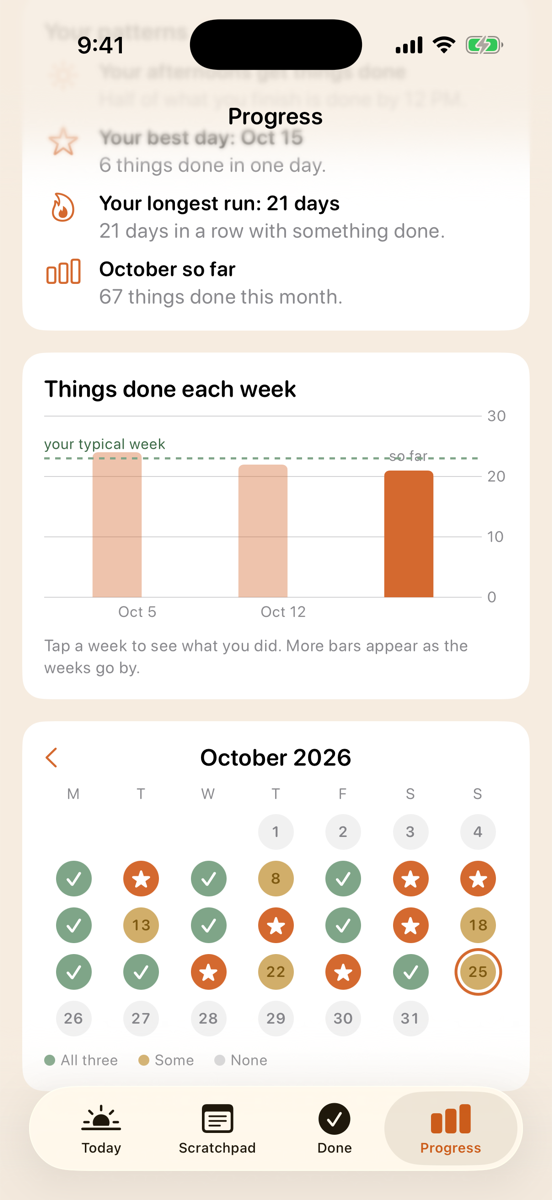
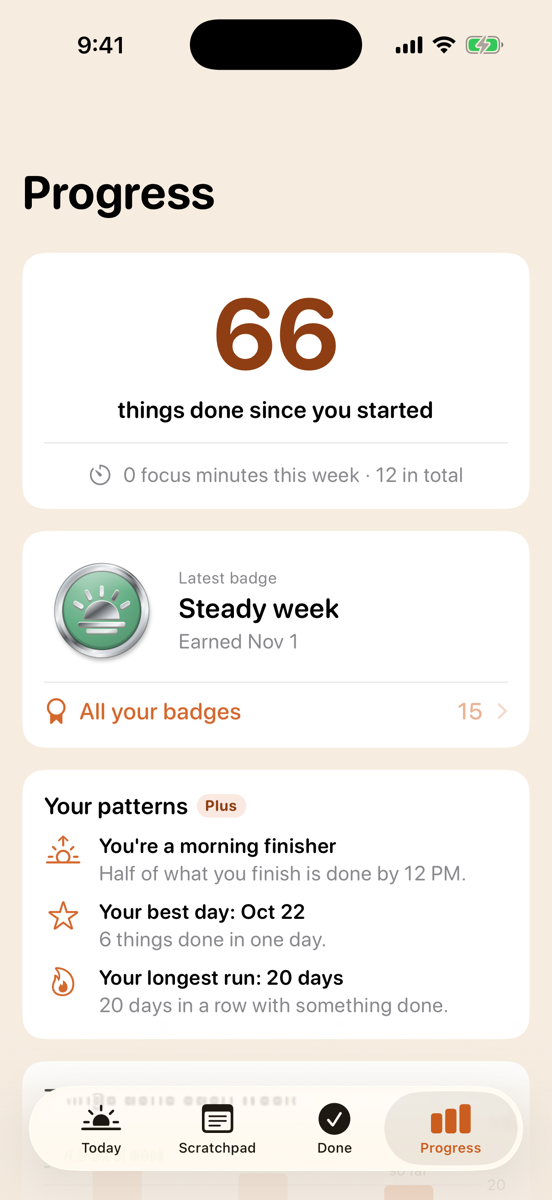
Start with one: new story, screenshots, support FAQ and link card

diff --git a/support.html b/support.html
@@ -26,8 +26,8 @@
   <h2>I ticked something by accident.</h2>
   <p>On Today, ticked tasks stay on the list for the day. Tap the green circle again to untick it, or tap <strong>•••</strong> on the task (or touch and hold it) and choose <strong>Mark as not done</strong>. You can also find it in the Done tab. It goes back exactly where it was.</p>
 
-  <h2>I finished something that wasn't in my three. Does it count?</h2>
-  <p>Yes. Any three things you finish fill your day, whether they're your three or something from the Scratchpad: the ring fills, nudges stop and the day's dot turns green. Everything also counts toward Progress and badges. Anything past three shows as <strong>+1</strong>, <strong>+2</strong>… on the ring.</p>
+  <h2>I finished something that wasn't in today's picks. Does it count?</h2>
+  <p>Yes. Anything you finish counts toward your daily goal, whether it's one of today's picks or something from the Scratchpad: the ring fills, nudges stop and the day's dot turns green. Everything also counts toward Progress and badges. Anything past your goal shows as <strong>+1</strong>, <strong>+2</strong>… on the ring.</p>
 
   <h2>I gave a task the wrong date.</h2>
   <p>Tap <strong>•••</strong> on the task and choose <strong>Set a date</strong> (or <strong>Change date</strong>). This works on Today too: pick a later day and it leaves today's list and waits for that day.</p>
@@ -36,19 +36,21 @@
   <p>At the top of Today, tap <strong>Take a day off</strong> and pick the dates. Days off never break your streak, and the app stays quiet on them. To skip the same days every week, change <strong>Active days</strong> in Settings.</p>
 
   <h2>How do I put a task on a certain day?</h2>
-  <p>Just type the day anywhere in the line: “call mom <strong>tomorrow</strong>”, “dentist <strong>fri</strong>”, “rent <strong>oct 30</strong>” or “<strong>10/30</strong>”. The task waits in the Scratchpad and joins your three that morning. “<strong>this weekend</strong>” puts it on Saturday, and “<strong>next fri</strong>” means Friday of next week. You can also tap <strong>•••</strong> on a task and choose <strong>Set a date</strong>.</p>
+  <p>Just type the day anywhere in the line: “call mom <strong>tomorrow</strong>”, “dentist <strong>fri</strong>”, “rent <strong>oct 30</strong>” or “<strong>10/30</strong>”. The task waits in the Scratchpad and joins today's picks that morning. “<strong>this weekend</strong>” puts it on Saturday, and “<strong>next fri</strong>” means Friday of next week. You can also tap <strong>•••</strong> on a task and choose <strong>Set a date</strong>.</p>
 
   <h2>What's the difference between a day and a deadline?</h2>
-  <p>A plain date (“fri”) is the day you'll do it, so it stays out of your three until then. Add “<strong>by</strong>” or “<strong>due</strong>” (“by fri”) and it's a deadline instead: Soonish may pick it earlier when there's room. You can switch between the two under <strong>Set a date</strong> or in Edit.</p>
+  <p>A plain date (“fri”) is the day you'll do it, so it stays out of today's picks until then. Add “<strong>by</strong>” or “<strong>due</strong>” (“by fri”) and it's a deadline instead: Soonish may pick it earlier when there's room. You can switch between the two under <strong>Set a date</strong> or in Edit.</p>
 
   <h2>Can tasks repeat?</h2>
-  <p>Yes. Type “<strong>every day</strong>”, “<strong>daily</strong>”, “<strong>every weekday</strong>”, “<strong>every mon and thu</strong>”, “<strong>on tuesdays</strong>”, “<strong>weekly</strong>” or “<strong>each day this week</strong>”, or tap <strong>•••</strong> and choose <strong>Repeat</strong> to pick the days and an optional last day. Each repeat joins your three on its day. Tick it and the next one waits for its day. Miss a day and it simply moves on: nothing piles up and nothing counts against you.</p>
+  <p>Yes. Type “<strong>every day</strong>”, “<strong>daily</strong>”, “<strong>every weekday</strong>”, “<strong>every mon and thu</strong>”, “<strong>on tuesdays</strong>”, “<strong>weekly</strong>” or “<strong>each day this week</strong>”, or tap <strong>•••</strong> and choose <strong>Repeat</strong> to pick the days and an optional last day. Each repeat joins today's picks on its day. Tick it and the next one waits for its day. Miss a day and it simply moves on: nothing piles up and nothing counts against you.</p>
 
   <h2>Can Soonish remind me at a certain time?</h2>
   <p>Yes. Add a time when you type a task: “call doctor <strong>at 3pm</strong>”, “dentist fri <strong>9:30am</strong>” or just “<strong>320p</strong>”. You can also tap <strong>•••</strong>, then <strong>Change date</strong> and <strong>Set time</strong>. Then turn on <strong>Settings → Heads-up for timed tasks</strong> and choose 15 minutes, 30 minutes or an hour before. You get one notification, even on a day off, and none if the task is already done.</p>
 
-  <h2>How does Soonish pick my three?</h2>
-  <p>It looks at due dates, tasks you've marked <strong>Important</strong>, and how long things have been waiting. It never gives you more than one task marked Heavy at once (unless two are due today). Each pick shows a small reason. Don't like one? Swap it out, and use "Back to the suggested three" to undo.</p>
+  <h2>How does Soonish pick for me?</h2>
+  <p>It looks at due dates, tasks you've marked <strong>Important</strong>, and how long things have been waiting. It never gives you more than one task marked Heavy at once (unless two are due today). Each pick shows a small reason. Don't like one? Swap it out, and use "Back to Soonish's picks" to undo.</p>
+  <h2>Why only one thing a day?</h2>
+  <p>Starting is the hardest part, so Soonish starts you with one. After a week with something done every day, it asks if you'd like two a day, then three. You can change it any time in <strong>Settings → Your daily goal</strong>, and doing more is always welcome: it all counts. A day with nothing on your list is a quiet day, and it never breaks your streak.</p>
 
   <h2>How do badges work?</h2>
   <p>You earn badges for Steady and Perfect weeks, your best week yet, going above and beyond, doing things you chose yourself, coming back after time away, focus time and milestones. There are once-a-year ones too, for New Year, St. Patrick's Day, Halloween, Thanksgiving and each new season, and one for your first day off. They never expire, and days off never cost you one. Find them on <strong>Progress</strong>: tap one to bring it to the front, and tap it again to see why you earned it.</p>
@@ -59,7 +61,7 @@
   <h2>What is Soonish Plus?</h2>
   <p>A few extras on top of Soonish, which stays free. They're free for everyone during the beta and marked with a small <strong>Plus</strong> tag. Turn them on in <strong>Settings → Soonish Plus</strong>:</p>
   <ul>
-    <li><strong>Today's three on the Lock Screen and Dynamic Island.</strong> It shows up on its own whenever you open Soonish and haven't finished three yet, and you can tick tasks right there. It goes away once three are done. The first time, iOS asks to allow Live Activities from Soonish.</li>
+    <li><strong>Today on the Lock Screen and Dynamic Island.</strong> It shows up on its own whenever you open Soonish and haven't met your goal yet, and you can tick tasks right there. It goes away once your goal is done. The first time, iOS asks to allow Live Activities from Soonish.</li>
     <li><strong>Focus sounds.</strong> Brown, pink or white noise under any Focus or Need a minute timer. It keeps going with the phone locked and stops when the timer ends.</li>
     <li><strong>Themes and app icons.</strong> Clay, Sea glass, Dusk, Rosewood, Brick or Denim, each with a matching icon for light and dark mode. Done, dates and Important keep their colours in every theme.</li>
     <li><strong>Your patterns.</strong> After about a week, Progress notices when you get the most done, your strongest day, your best day and longest run, and offers to move your nudges or end-of-day note to suit you. A short recap arrives on the 1st of each month.</li>
@@ -73,7 +75,7 @@
   <p>The Soonish widget follows your phone's light or dark mode, set in <strong>Settings → Display &amp; Brightness</strong>. iPhone also lets you make just the Home Screen light (touch and hold the Home Screen, then <strong>Edit → Customize</strong>), but apps can't see that choice, so the widget stays dark. To fix it, open Soonish and go to <strong>Settings → Look</strong>, then choose <strong>Light</strong>. The widget will stay light whatever your phone is set to. Choose <strong>Match phone</strong> to go back.</p>
 
   <h2>The nudges are too much (or not enough).</h2>
-  <p>Change the times in Settings, or swipe one away to remove it. They always stop as soon as three things are done today, and never come on days off or while a Focus timer is running.</p>
+  <p>Change the times in Settings, or swipe one away to remove it. They always stop as soon as your goal is done today, and never come on days off or while a Focus timer is running.</p>
 
   <footer>Soonish · <a href="privacy.html">Privacy</a></footer>
 </main>

diff --git a/index.html b/index.html
@@ -4,17 +4,17 @@
   <meta charset="utf-8">
   <meta name="viewport" content="width=device-width, initial-scale=1">
   <title>Soonish</title>
-  <meta name="description" content="Three things a day, picked for you. A calm iPhone to-do app that picks your three for today.">
+  <meta name="description" content="Start with one. A calm iPhone to-do app that picks one thing for today, and more when you're ready.">
   <!-- Link previews (Messages, Slack, social): a wide 1200×630 card, not the tall screenshot. -->
   <meta property="og:type" content="website">
   <meta property="og:url" content="https://getsoonish.co/">
   <meta property="og:site_name" content="Soonish">
-  <meta property="og:title" content="Soonish: Three things a day">
-  <meta property="og:description" content="A calm iPhone to-do app. It picks your three for today, nudges you gently, then goes quiet.">
+  <meta property="og:title" content="Soonish: Start with one">
+  <meta property="og:description" content="A calm iPhone to-do app. It picks one thing for today, nudges you gently, then goes quiet.">
   <meta property="og:image" content="https://getsoonish.co/images/social.png">
   <meta property="og:image:width" content="1200">
   <meta property="og:image:height" content="630">
-  <meta property="og:image:alt" content="Soonish: Three things a day. Picked for you. Gentle nudges, then quiet.">
+  <meta property="og:image:alt" content="Soonish: Start with one. Picked for you. Gentle nudges, then quiet.">
   <meta name="twitter:card" content="summary_large_image">
   <link rel="icon" href="logo.svg" type="image/svg+xml">
   <link rel="apple-touch-icon" href="apple-touch-icon.png">
@@ -25,20 +25,20 @@
   <header class="hero">
     <img src="logo.svg" alt="" width="88" height="88">
     <h1>Soonish</h1>
-    <p class="tagline">Three things a day. Start here.</p>
-    <p class="lede">Get everything out of your head. Soonish picks your three for today, nudges you gently until they're done, then goes quiet.</p>
+    <p class="tagline">Start with one.</p>
+    <p class="lede">Get everything out of your head. Soonish picks one thing for today, nudges you gently until it's done, then goes quiet. Ready for more? Grow to two or three a day.</p>
     <!-- The beta button: shown once the TestFlight public link exists. -->
     <p class="cta"><span class="button soon">Beta opening soon</span></p>
   </header>
 
   <section class="highlights">
     <div class="highlight">
-      <h2>It picks your three</h2>
-      <p>Add everything on your mind. Soonish ranks it and puts three on today, with where to start. Swap any you like.</p>
+      <h2>It picks your one</h2>
+      <p>Add everything on your mind. Soonish ranks it and puts one thing on today, with why. Swap it if you like.</p>
     </div>
     <div class="highlight">
       <h2>Gentle nudges, then quiet</h2>
-      <p>A few friendly reminders about what's left. They stop the moment your three are done.</p>
+      <p>A few friendly reminders about what's left. They stop the moment your goal is done.</p>
     </div>
     <div class="highlight">
       <h2>Days off never count against you</h2>
@@ -48,27 +48,27 @@
 
   <section class="shots" aria-label="Screenshots">
     <figure>
-      <img src="images/today.png?v=20261026" alt="Soonish's Today screen: your three in one panel, a Start here highlight, one ticked off, a progress ring at 1 of 3, and this week's dots." width="276" height="600" loading="lazy">
-      <figcaption>Today: your three, and where to start</figcaption>
+      <img src="images/today.png?v=20261101b" alt="Soonish's Today screen: your one thing for today with a Start here button, a progress ring at 0 of 1, and this week's dots." width="276" height="600" loading="lazy">
+      <figcaption>Today: your one thing, and where to start</figcaption>
     </figure>
     <figure>
-      <img src="images/scratchpad.png?v=20261026" alt="The Scratchpad: one line to add anything, Up next with a deadline chip, and everything else in one list: Tomorrow, This week and No date." width="276" height="600" loading="lazy">
+      <img src="images/scratchpad.png?v=20261101b" alt="The Scratchpad: one line to add anything, one thing up next, and everything else folded into Tomorrow, This month and No date, each showing its first task." width="276" height="600" loading="lazy">
       <figcaption>Scratchpad: get it out of your head</figcaption>
     </figure>
     <figure>
-      <img src="images/done.png?v=20261026" alt="The Done tab: 21 things done this week, the week's dots, and each day's finished tasks." width="276" height="600" loading="lazy">
+      <img src="images/done.png?v=20261101b" alt="The Done tab: 20 things done this week, the week's dots, and each day's finished tasks." width="276" height="600" loading="lazy">
       <figcaption>Done: everything you finished</figcaption>
     </figure>
     <figure>
-      <img src="images/progress.png?v=20261026" alt="The Progress tab: notes about when you get things done, things done each week, and a month of coloured day dots." width="276" height="600" loading="lazy">
+      <img src="images/progress.png?v=20261101b" alt="The Progress tab: 66 things done, the latest badge (a Steady week), and notes about when you get things done." width="276" height="600" loading="lazy">
       <figcaption>Progress: numbers that only go up</figcaption>
     </figure>
     <figure>
-      <img src="images/need-a-minute.png?v=20261026" alt="Need a minute: a calm dark screen offering a 2-minute reset, a 15-minute micro-bite, or clearing your head." width="276" height="600" loading="lazy">
+      <img src="images/need-a-minute.png?v=20261101b" alt="Need a minute: a calm dark screen offering a 2-minute reset, a 15-minute micro-bite, or clearing your head." width="276" height="600" loading="lazy">
       <figcaption>Need a minute: for when it's all too much</figcaption>
     </figure>
     <figure>
-      <img src="images/badge.png?v=20261026" alt="A Perfect week badge celebration: a silver-rimmed hexagon pin with a gold enamel star." width="276" height="600" loading="lazy">
+      <img src="images/badge.png?v=20261101b" alt="A Steady week badge celebration: a silver-rimmed green pin with a rising sun, and "Something done every day this week."" width="276" height="600" loading="lazy">
       <figcaption>Badges that celebrate, never shame</figcaption>
     </figure>
   </section>
@@ -76,7 +76,8 @@
   <section class="story">
     <h2>Why I made Soonish</h2>
     <p>I have ADHD, and to-do apps never stuck for me. Seeing everything I needed to do at once made me freeze. The red badge number kept climbing until I stopped looking, and eventually I'd delete the app and feel disappointed in myself for not sticking with something that was meant to help.</p>
-    <p>So I built the opposite: something that would help me actually get through my list. You put everything into the Scratchpad, and each day it shows you just three things. It nudges you gently, then goes quiet once they're done, and a bad day or a day off never counts against you. Instead of a red number on the icon, a widget on your Home Screen shows your three, and you can tick them off right there. You earn badges for what you get done, and you're never shamed for what you don't.</p>
+    <p>So I built the opposite. The first version picked three things a day. Then I lived with it, and on hard days even three was too much. I caught myself marking days off just so my streak wouldn't break, without doing anything at all. Three was still the same wall, just smaller.</p>
+    <p>So now Soonish starts with one. You put everything into the Scratchpad, and each day it shows you one thing. When that starts to feel easy, it asks if you'd like two, then three, but it never asks for more than three, and you can always go back. It nudges you gently, then goes quiet once you're done. On a day off, or a day with nothing on your list, it doesn't nudge you at all. Instead of a red number on the icon, a widget on your Home Screen shows what's next, and you can tick it off right there. You earn badges for what you get done, and you're never shamed for what you don't.</p>
     <p>I made it for people like me, but a lot of people get overwhelmed by how most to-do apps work and just need to take it one day, one task, at a time. I hope it helps you the way it's helped me.</p>
     <p class="signature">— Steven</p>
   </section>

diff --git a/privacy.html b/privacy.html
@@ -28,7 +28,7 @@
   <h2>Permissions the app may ask for</h2>
   <p>Each one is optional, and you can turn it off at any time in the iPhone's Settings app.</p>
   <ul>
-    <li><strong>Calendar:</strong> to show today's events next to your three. Soonish only reads your calendar; it never changes it, and the events never leave your phone.</li>
+    <li><strong>Calendar:</strong> to show today's events next to your picks for the day. Soonish only reads your calendar; it never changes it, and the events never leave your phone.</li>
     <li><strong>Microphone and speech recognition:</strong> to turn what you say into tasks. Speech is recognized on your iPhone, and the audio isn't saved or sent anywhere.</li>
     <li><strong>Notifications:</strong> for the gentle nudges and the end-of-day note. They're scheduled on your phone.</li>
     <li><strong>Camera:</strong> to take a photo of a written list (Snap a list). The text is read on your iPhone, and the photo isn't kept.</li>
